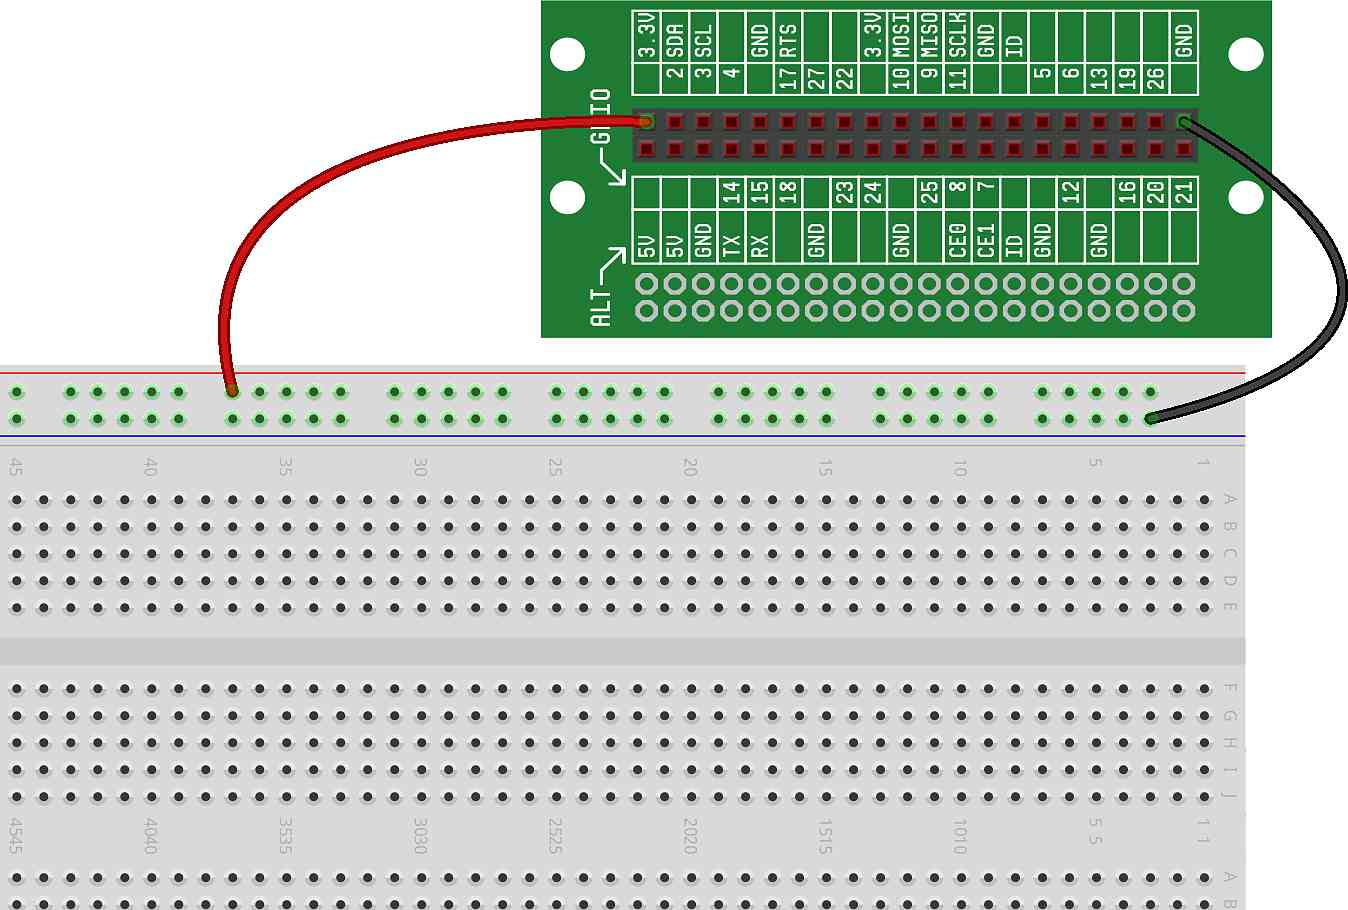
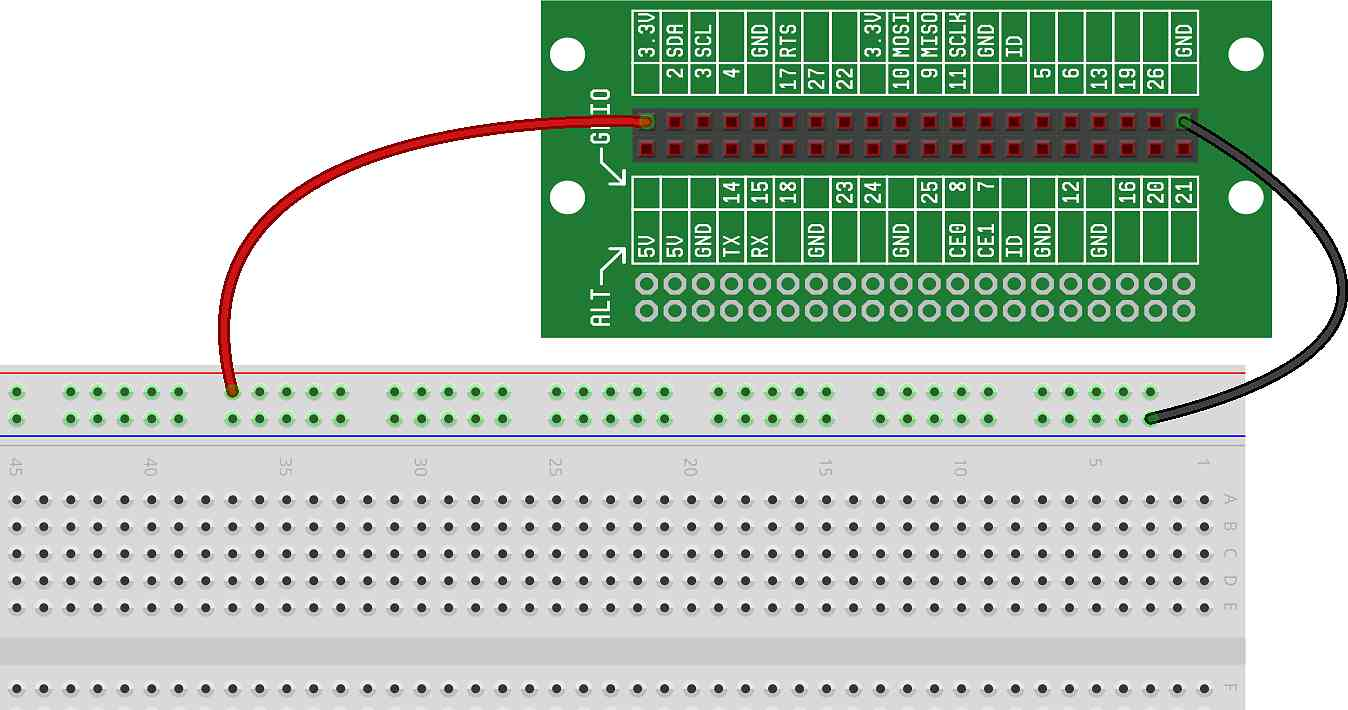
updated USING_INPUTS images

diff --git a/im/USING_INPUTS.html b/im/USING_INPUTS.html
@@ -52,9 +52,7 @@
   looks like when connected to power or ground.  Connect GPIOs 14 and 18 to
   power and ground, respectively, as shown:
 
-  <p><mark>wrong image</mark></p>
-  <img class="bb" src=
-  "img/Buttons_with_GPIO_1_bb.jpg" alt="">
+  <img class="bb" src="img/Inputs_bb.jpg" alt="">
 
  </div>
  <div class="section" id="sw">
